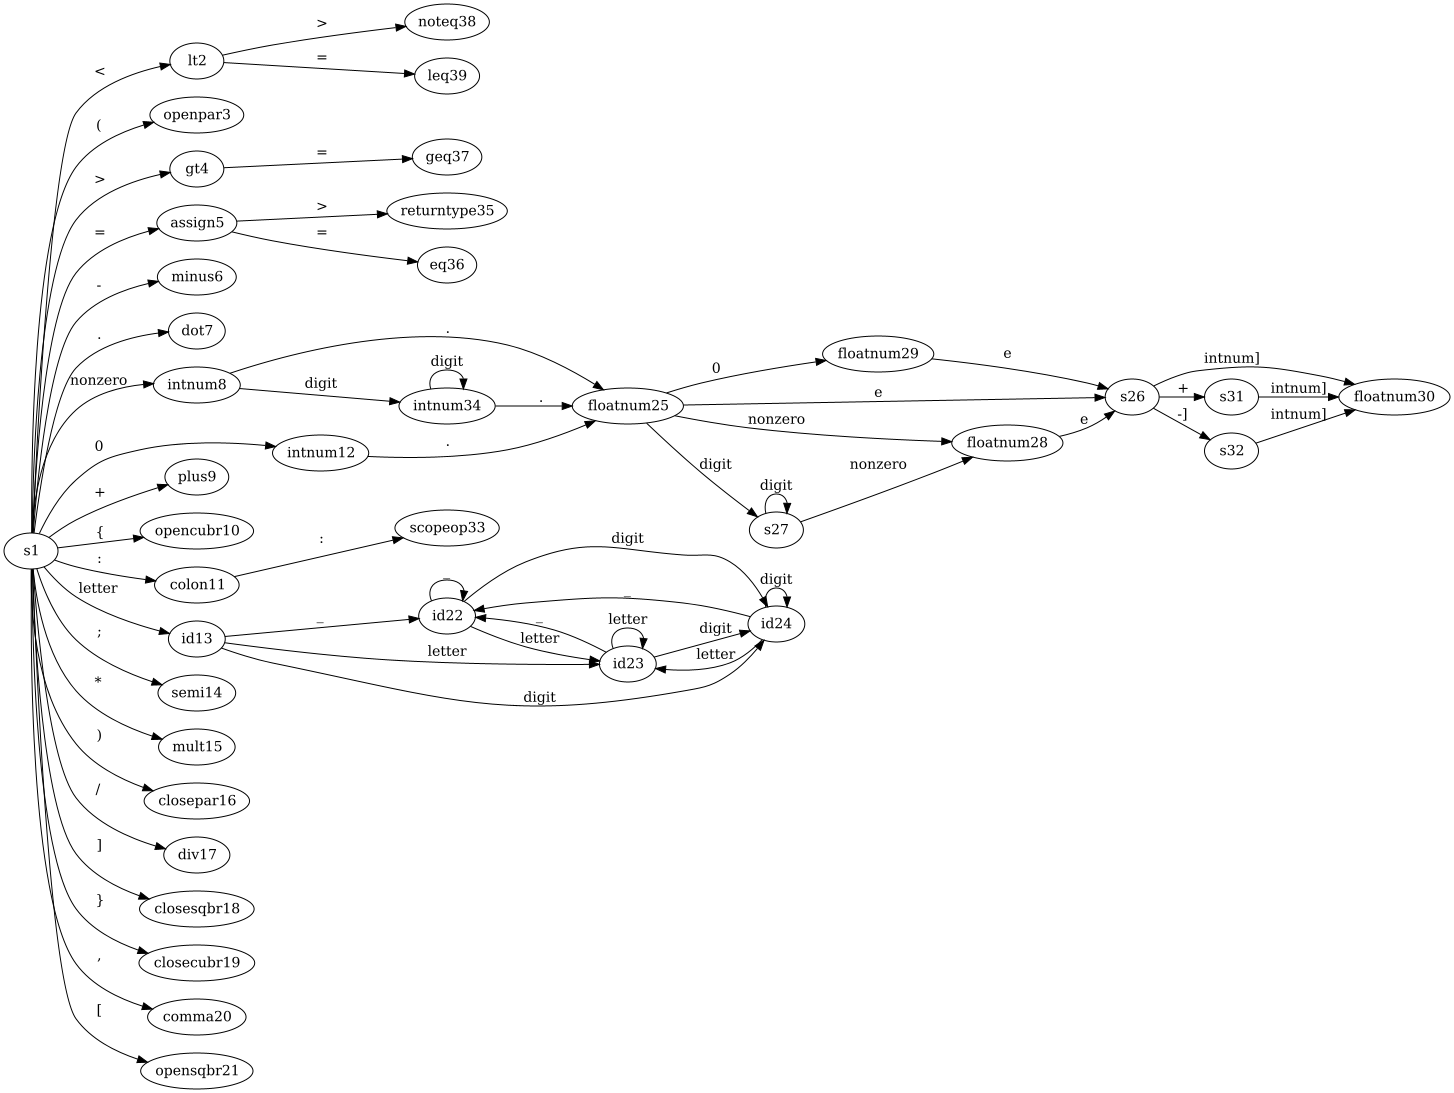
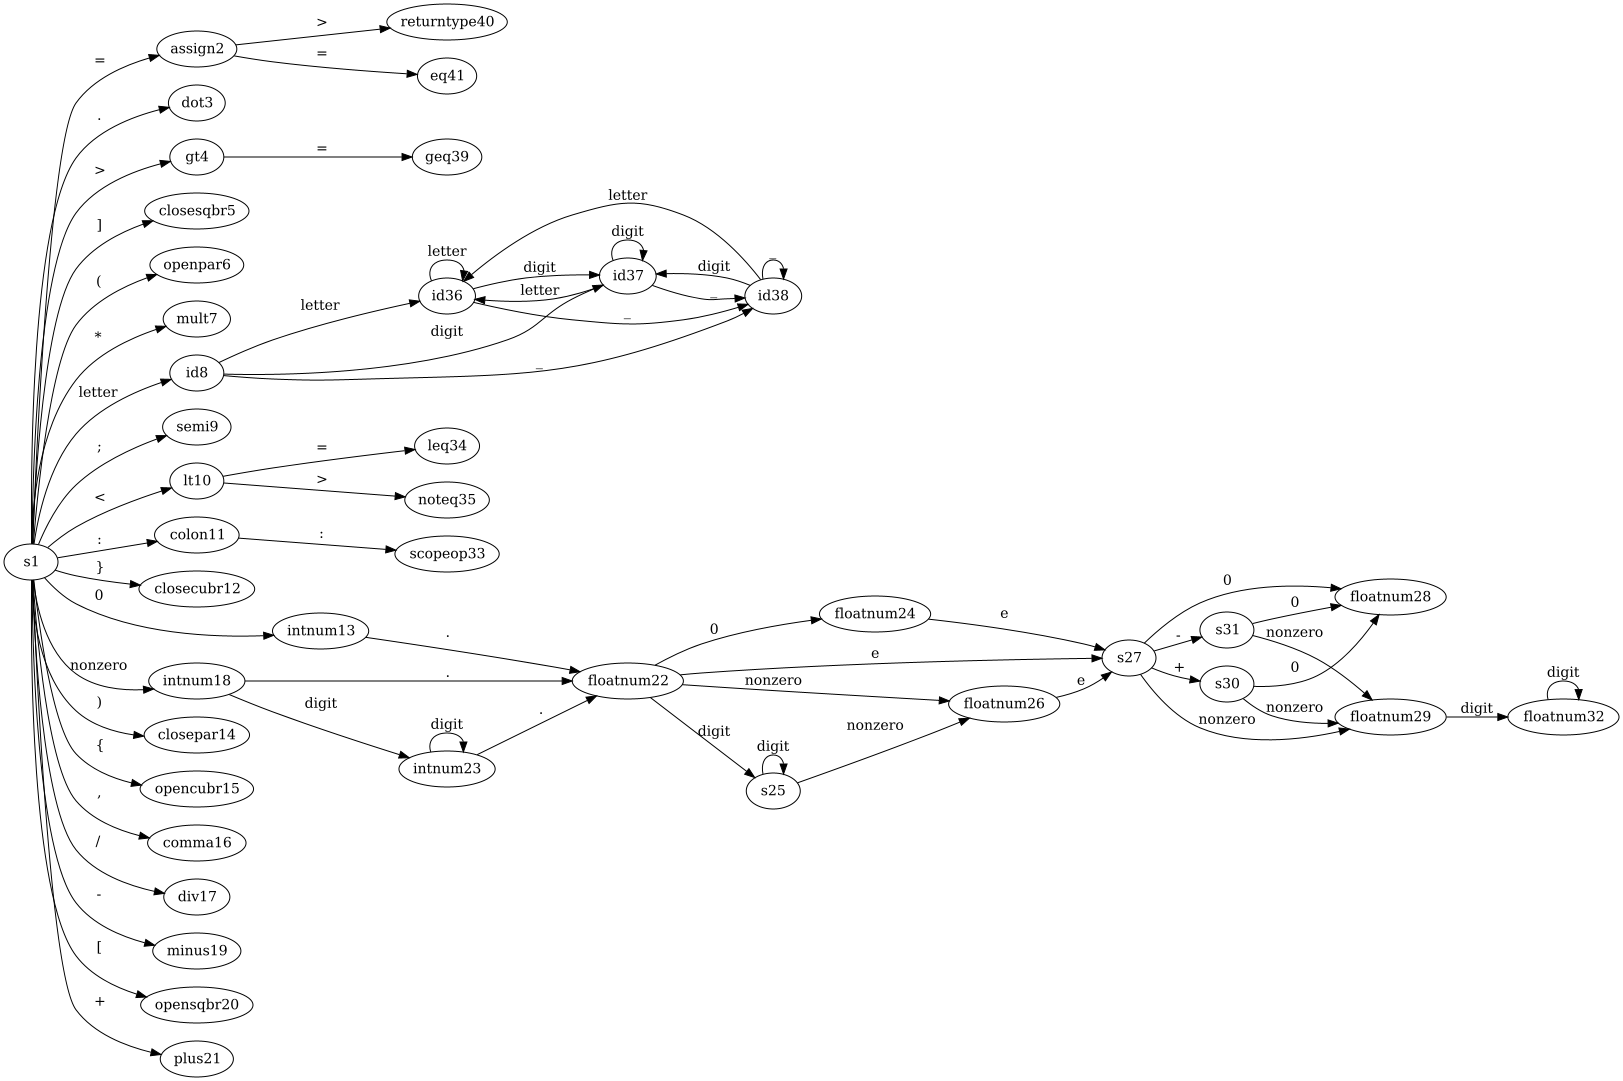
Fixed bug with my optional regex so floatnums are detected now

diff --git a/src/dfa_generation/NdfaGenerator.java b/src/dfa_generation/NdfaGenerator.java
@@ -63,7 +63,7 @@ public class NdfaGenerator {
                 return new Ndfa(start, end);
             } else if (element.length() != 1 && element.charAt(element.length() - 1) == '?') {
                 // the element is optional so do the recursion and then draw a ε edge from entry to exit
-                Ndfa optionalPart = generateNdfaFromElement(element.substring(1, element.length() - 1), branchToken);
+                Ndfa optionalPart = generateNdfaFromElement(element.substring(0, element.length() - 1), branchToken);
                 optionalPart.getEntry().addEdge("ε", optionalPart.getExit());
                 return optionalPart;
             } else if (element.charAt(0) == '[' && element.charAt(element.length() - 1) == ']') {
